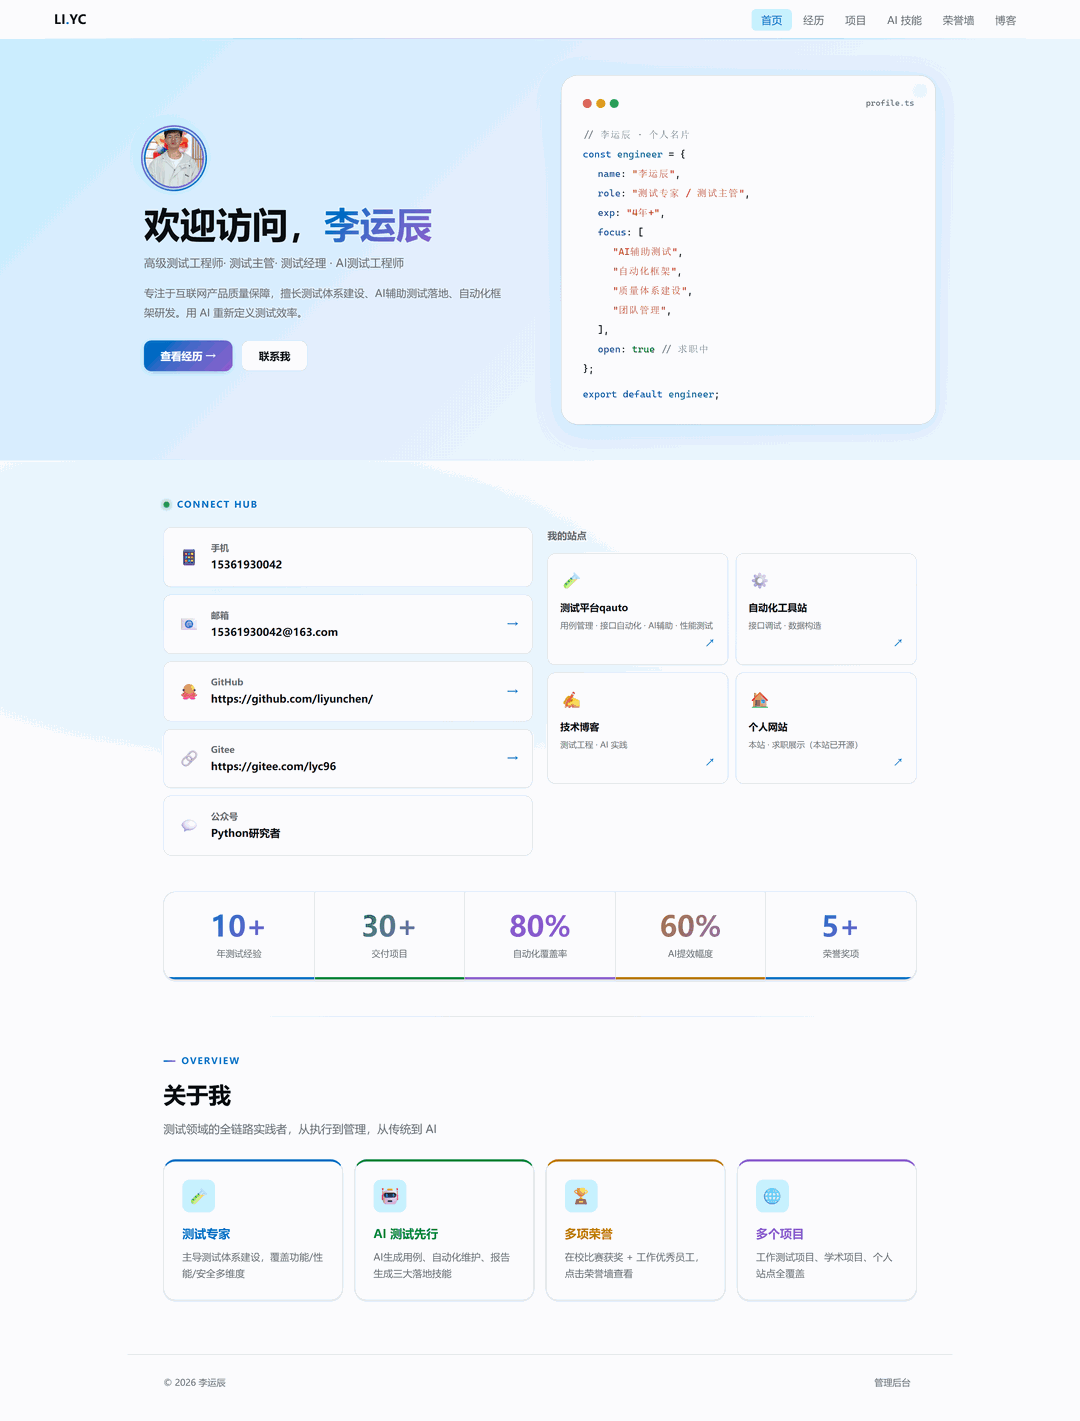
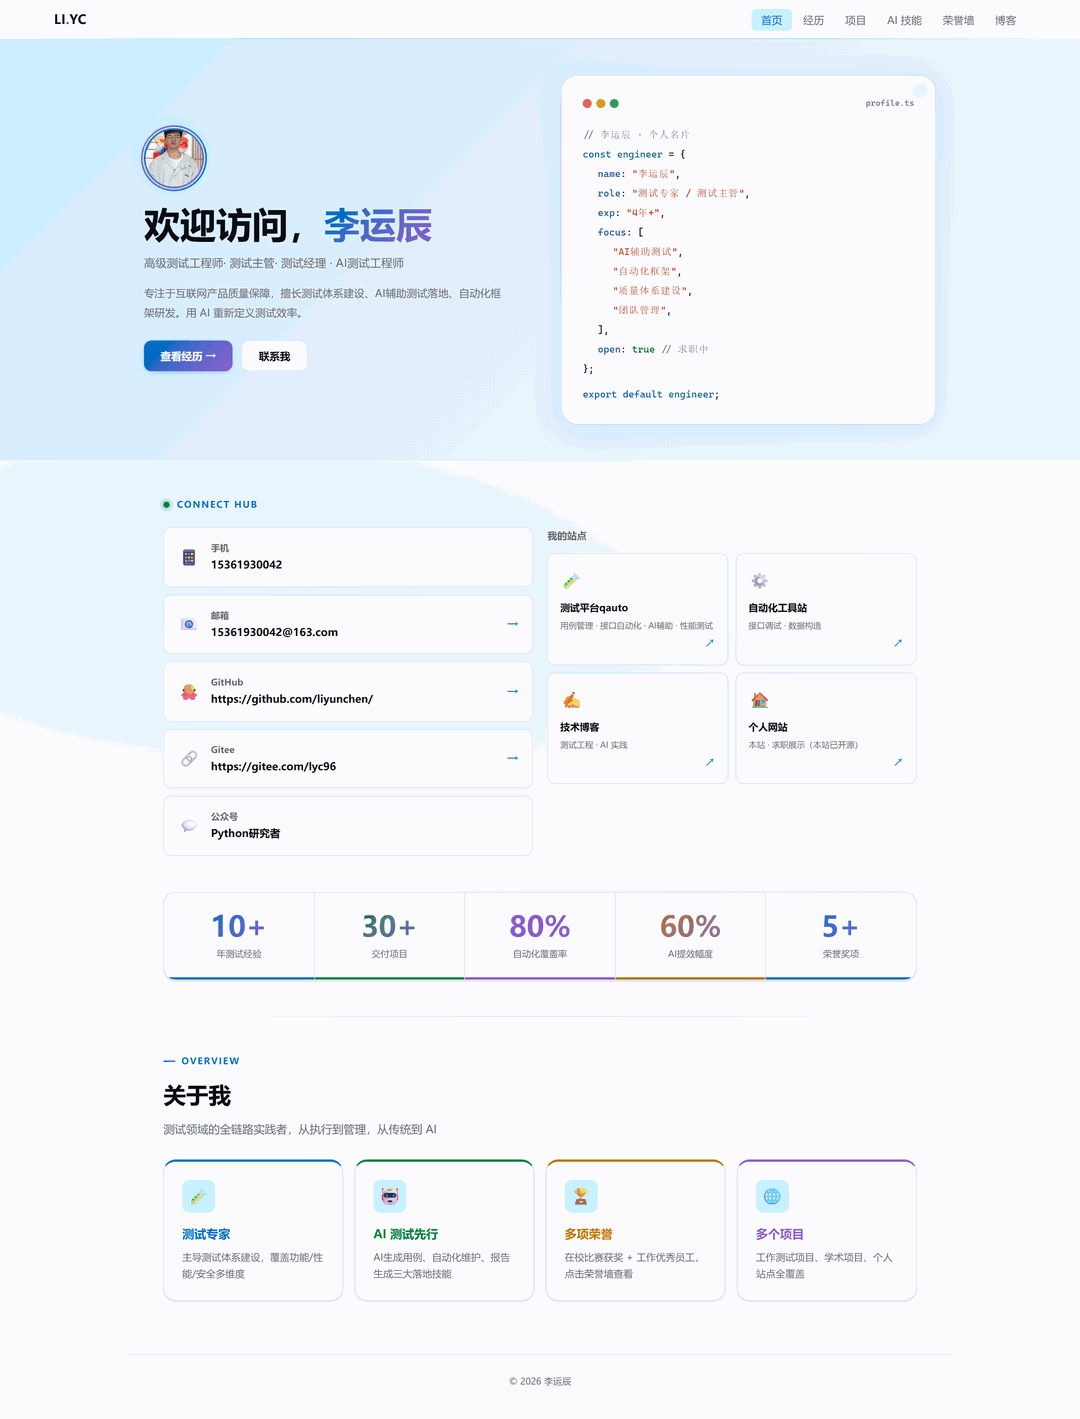
docs: 重新采集截图，反映隐藏后台入口后的界面
footer 入口移除后重新采集 13 张演示截图。
同时修正 capture_screenshots.py 的 STAR 展开选择器
（原用 class 通配匹配不到，改用 get_by_role 按按钮文本定位），
并让展开后自动 scrollIntoView 保证内容在视口内。

经 Pillow 量化压缩，6035K -> 677K (-89%)。

diff --git a/deploy/capture_screenshots.py b/deploy/capture_screenshots.py
@@ -62,10 +62,13 @@ def main():
         # 项目页：展开一个 STAR 详情
         page.click(".nav-link >> text=项目")
         page.wait_for_timeout(800)
-        star = page.locator("[class*='star-toggle'], [class*='star'] button").first
+        star = page.get_by_role("button", name="查看 STAR 详情").first
         if star.count() > 0:
             star.click()
-            page.wait_for_timeout(700)
+            page.wait_for_timeout(800)
+            page.evaluate(
+                "document.querySelector('.star-list')?.scrollIntoView({block:'center'})")
+            page.wait_for_timeout(600)
             shot(page, "03b-project-star")
         else:
             print("  [--] 未找到 STAR 展开按钮，跳过")
